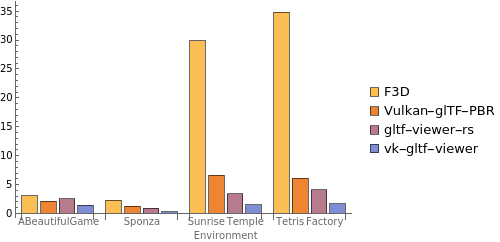
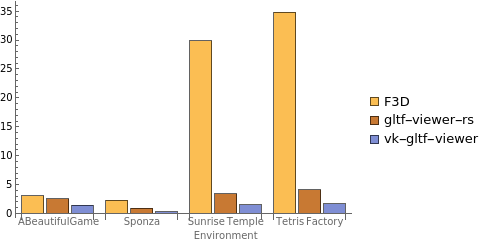
Removed some measured results.

diff --git a/docs/performance-comparison.md b/docs/performance-comparison.md
@@ -9,7 +9,6 @@ I made a video that compares the loading time and average running FPS of each de
 The applications used for comparison are:
 
 - [F3D](https://github.com/f3d-app/f3d): Fast and minimalist 3D viewer (upper-left).
-- [Vulkan-glTF-PBR](https://github.com/SaschaWillems/Vulkan-glTF-PBR): Physical based rendering with Vulkan using glTF 2.0 models (upper-right).
 - [gltf-viewer-rs](https://github.com/adrien-ben/gltf-viewer-rs): glTF 2.0 file viewer written in Rust using Vulkan (lower-left).
 - And my application (lower-right).
 
@@ -24,7 +23,6 @@ I tried to make the running configuration as same as possible for fair compariso
 
 - For F3D, I turned off the ambient occlusion, axis/grid visualization and HDRI ambient lighting. And turned on the antialiasing and HDRI skybox lighting. Since F3D is based on OpenGL, it does not support the Metal FPS HUD, therefore I used the application-provided FPS meter.
 - For gltf-viewer-rs, I turned off the SSAO and turned on the HDR tone mapping.
-- For Vulkan-glTF-PBR, I don't know why but the swapchain is always presenting the image at fixed 120 FPS (regardless of the rendering time, even it took more than its vsync time!), therefore I slightly modified the FPS print code so that it can measure **the time between each `vkQueuePresentKHR` call**. Since this limit, **even if the real FPS is more than 120 FPS, it is recorded as 120 FPS.**
 - For my application, I disabled the mouse picking and outline rendering.
 - For Vulkan applications (except for F3D), 
   - I disabled the validation layer for the entire system using Vulkan configurator.
@@ -34,12 +32,12 @@ I tried to make the running configuration as same as possible for fair compariso
 
 ### Loading Time
 
-|           Model            |         F3D         |  Vulkan-glTF-PBR  |  gltf-viewer-rs   | vk-gltf-viewer<br>(baseline) |
-|:--------------------------:|:-------------------:|:-----------------:|:-----------------:|:----------------------------:|
-|       ABeautifulGame       |  3.05 s<br>(2.06x)  | 2.15 s<br>(1.45x) | 2.58 s<br>(1.74x) |            1.48 s            |
-|           Sponza           |  2.3 s<br>(8.21x)   | 1.28 s<br>(4.57x) | 0.9 s<br>(3.21x)  |            0.28 s            |
-| Sunrise Temple Environment | 29.87 s<br>(19.78x) | 6.65 s<br>(4.40x) | 3.4 s<br>(2.25x)  |            1.51 s            | 
-|       Tetris Factory       | 34.85 s<br>(20.5x)  | 6.08 s<br>(3.57x) | 4.09 s<br>(2.41x) |            1.7 s             |
+|           Model            |         F3D         |  gltf-viewer-rs   | vk-gltf-viewer<br>(baseline) |
+|:--------------------------:|:-------------------:|:-----------------:|:----------------------------:|
+|       ABeautifulGame       |  3.05 s<br>(2.06x)  | 2.58 s<br>(1.74x) |            1.48 s            |
+|           Sponza           |  2.3 s<br>(8.21x)   | 0.9 s<br>(3.21x)  |            0.28 s            |
+| Sunrise Temple Environment | 29.87 s<br>(19.78x) | 3.4 s<br>(2.25x)  |            1.51 s            | 
+|       Tetris Factory       | 34.85 s<br>(20.5x)  | 4.09 s<br>(2.41x) |            1.7 s             |
 
 ![Loading time bar chart](images/loading-time-comparison.png)
 
